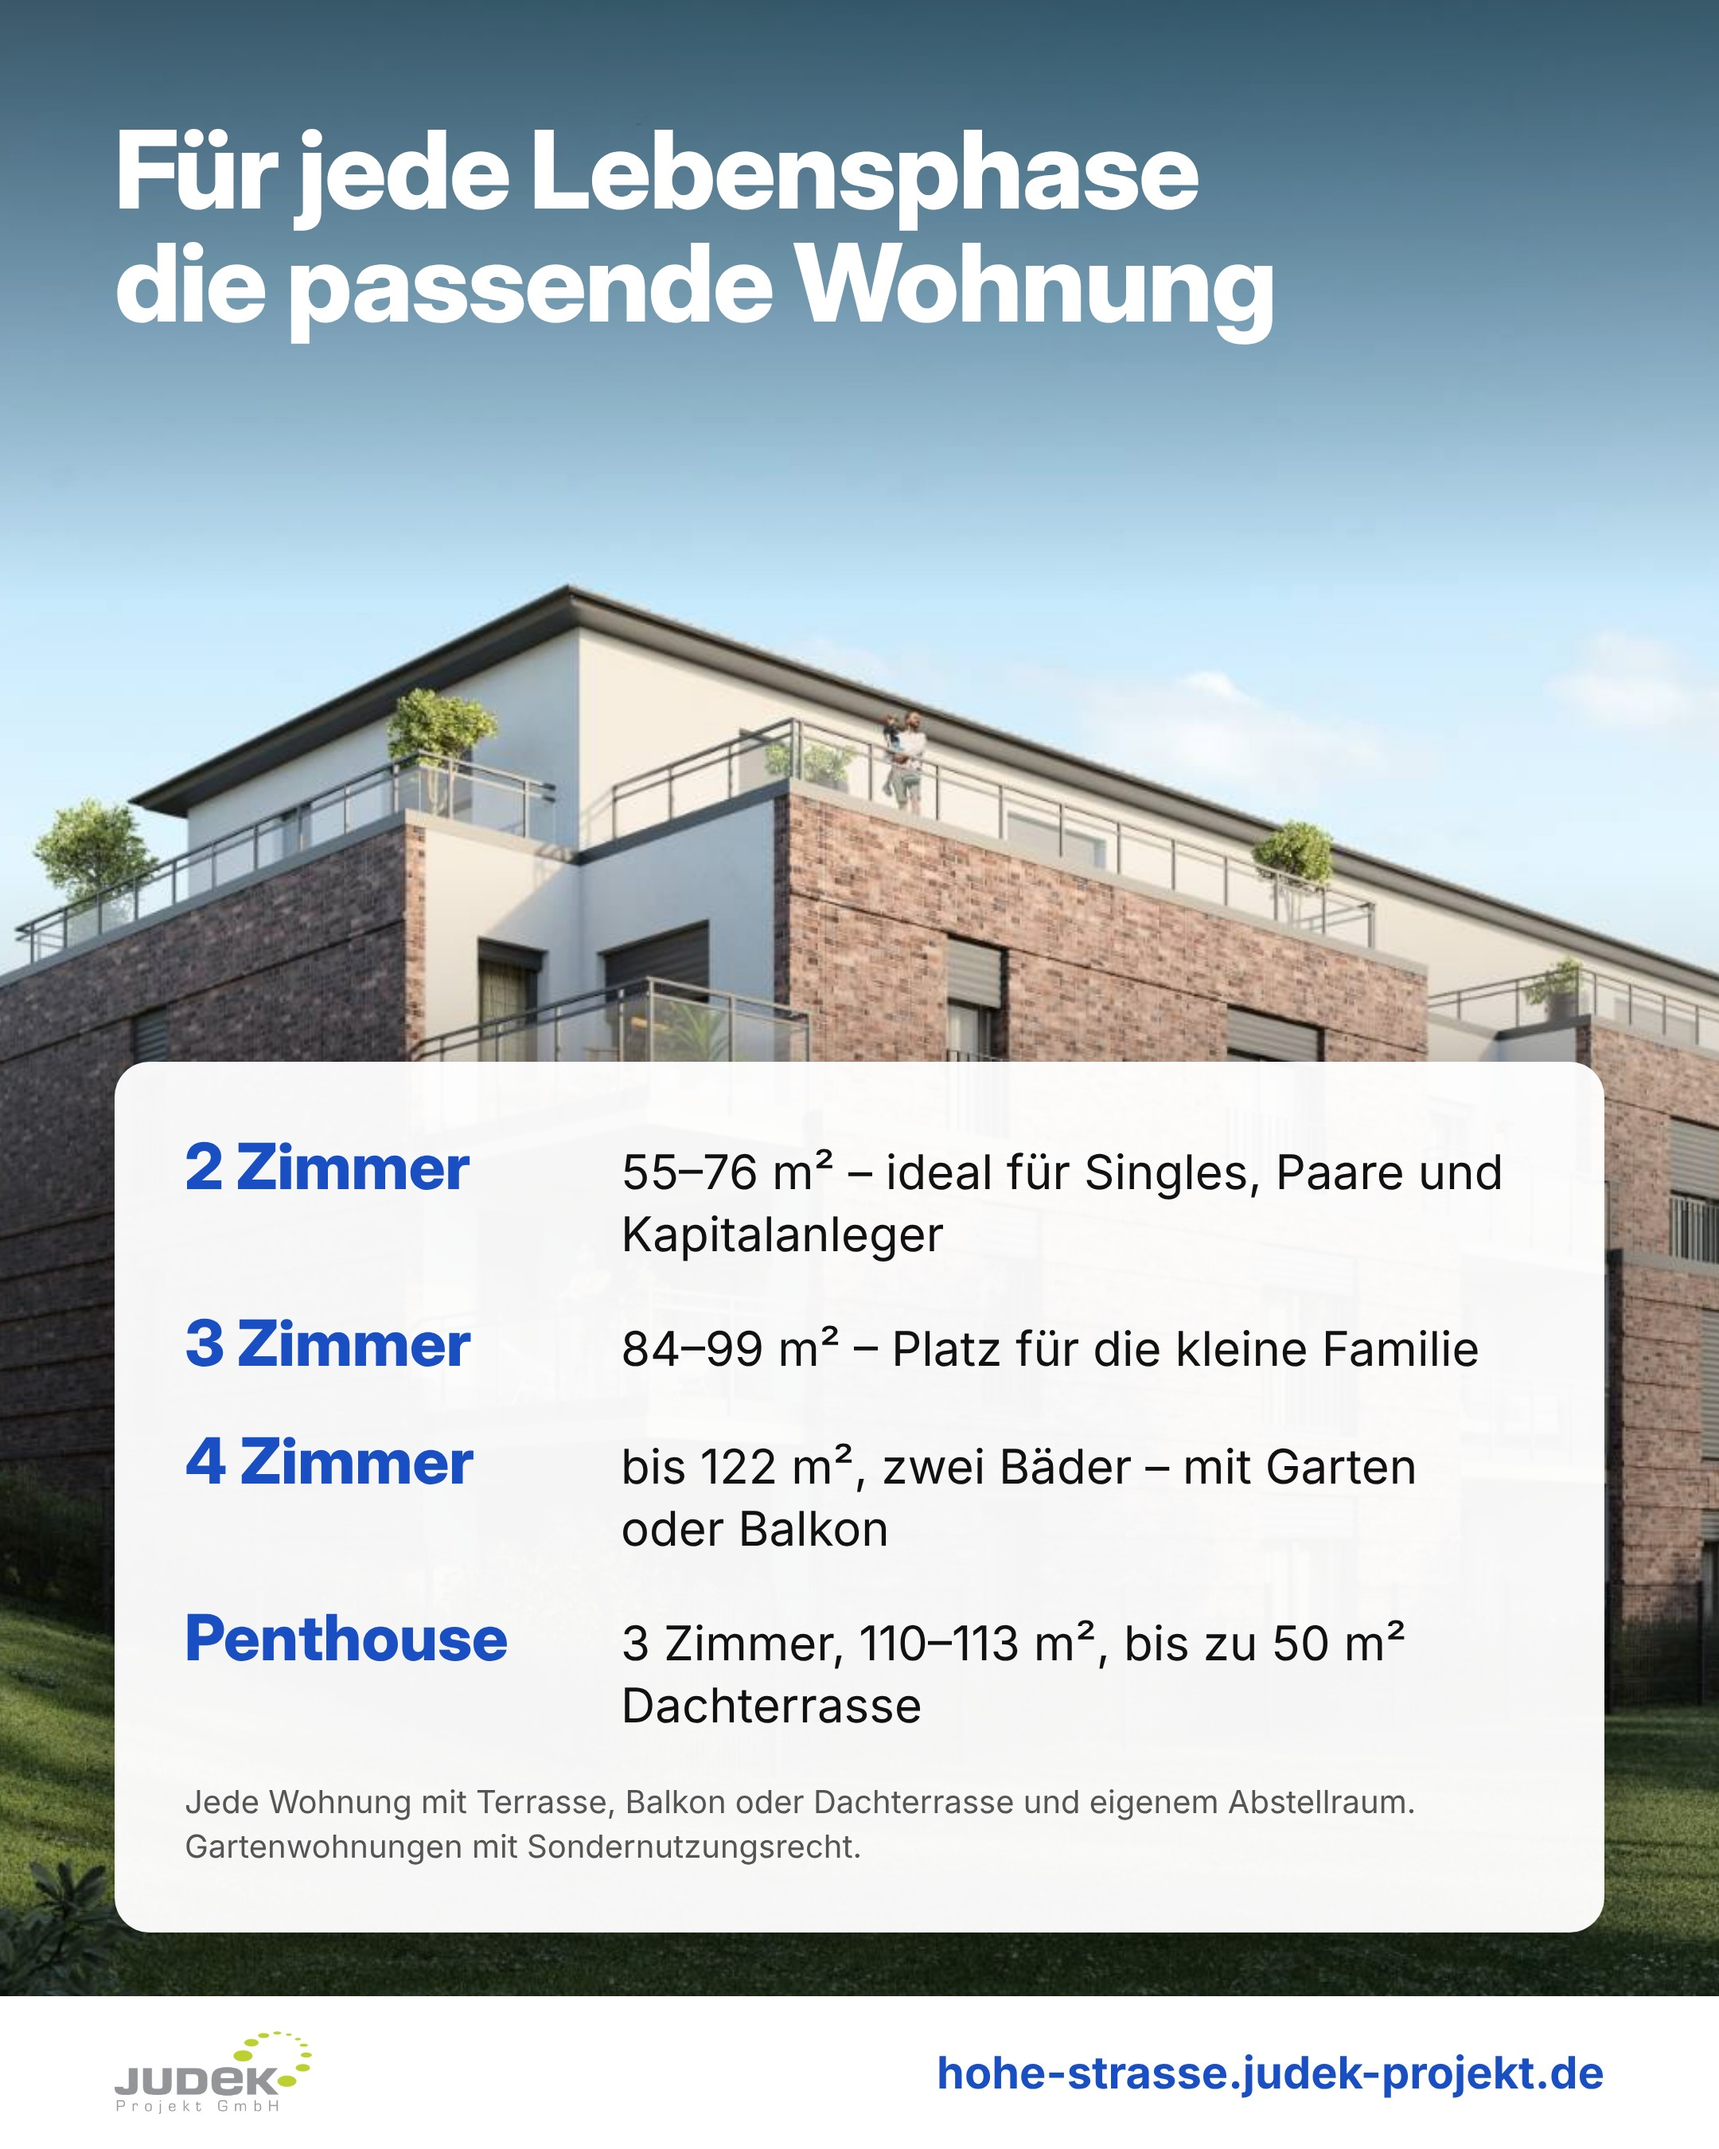
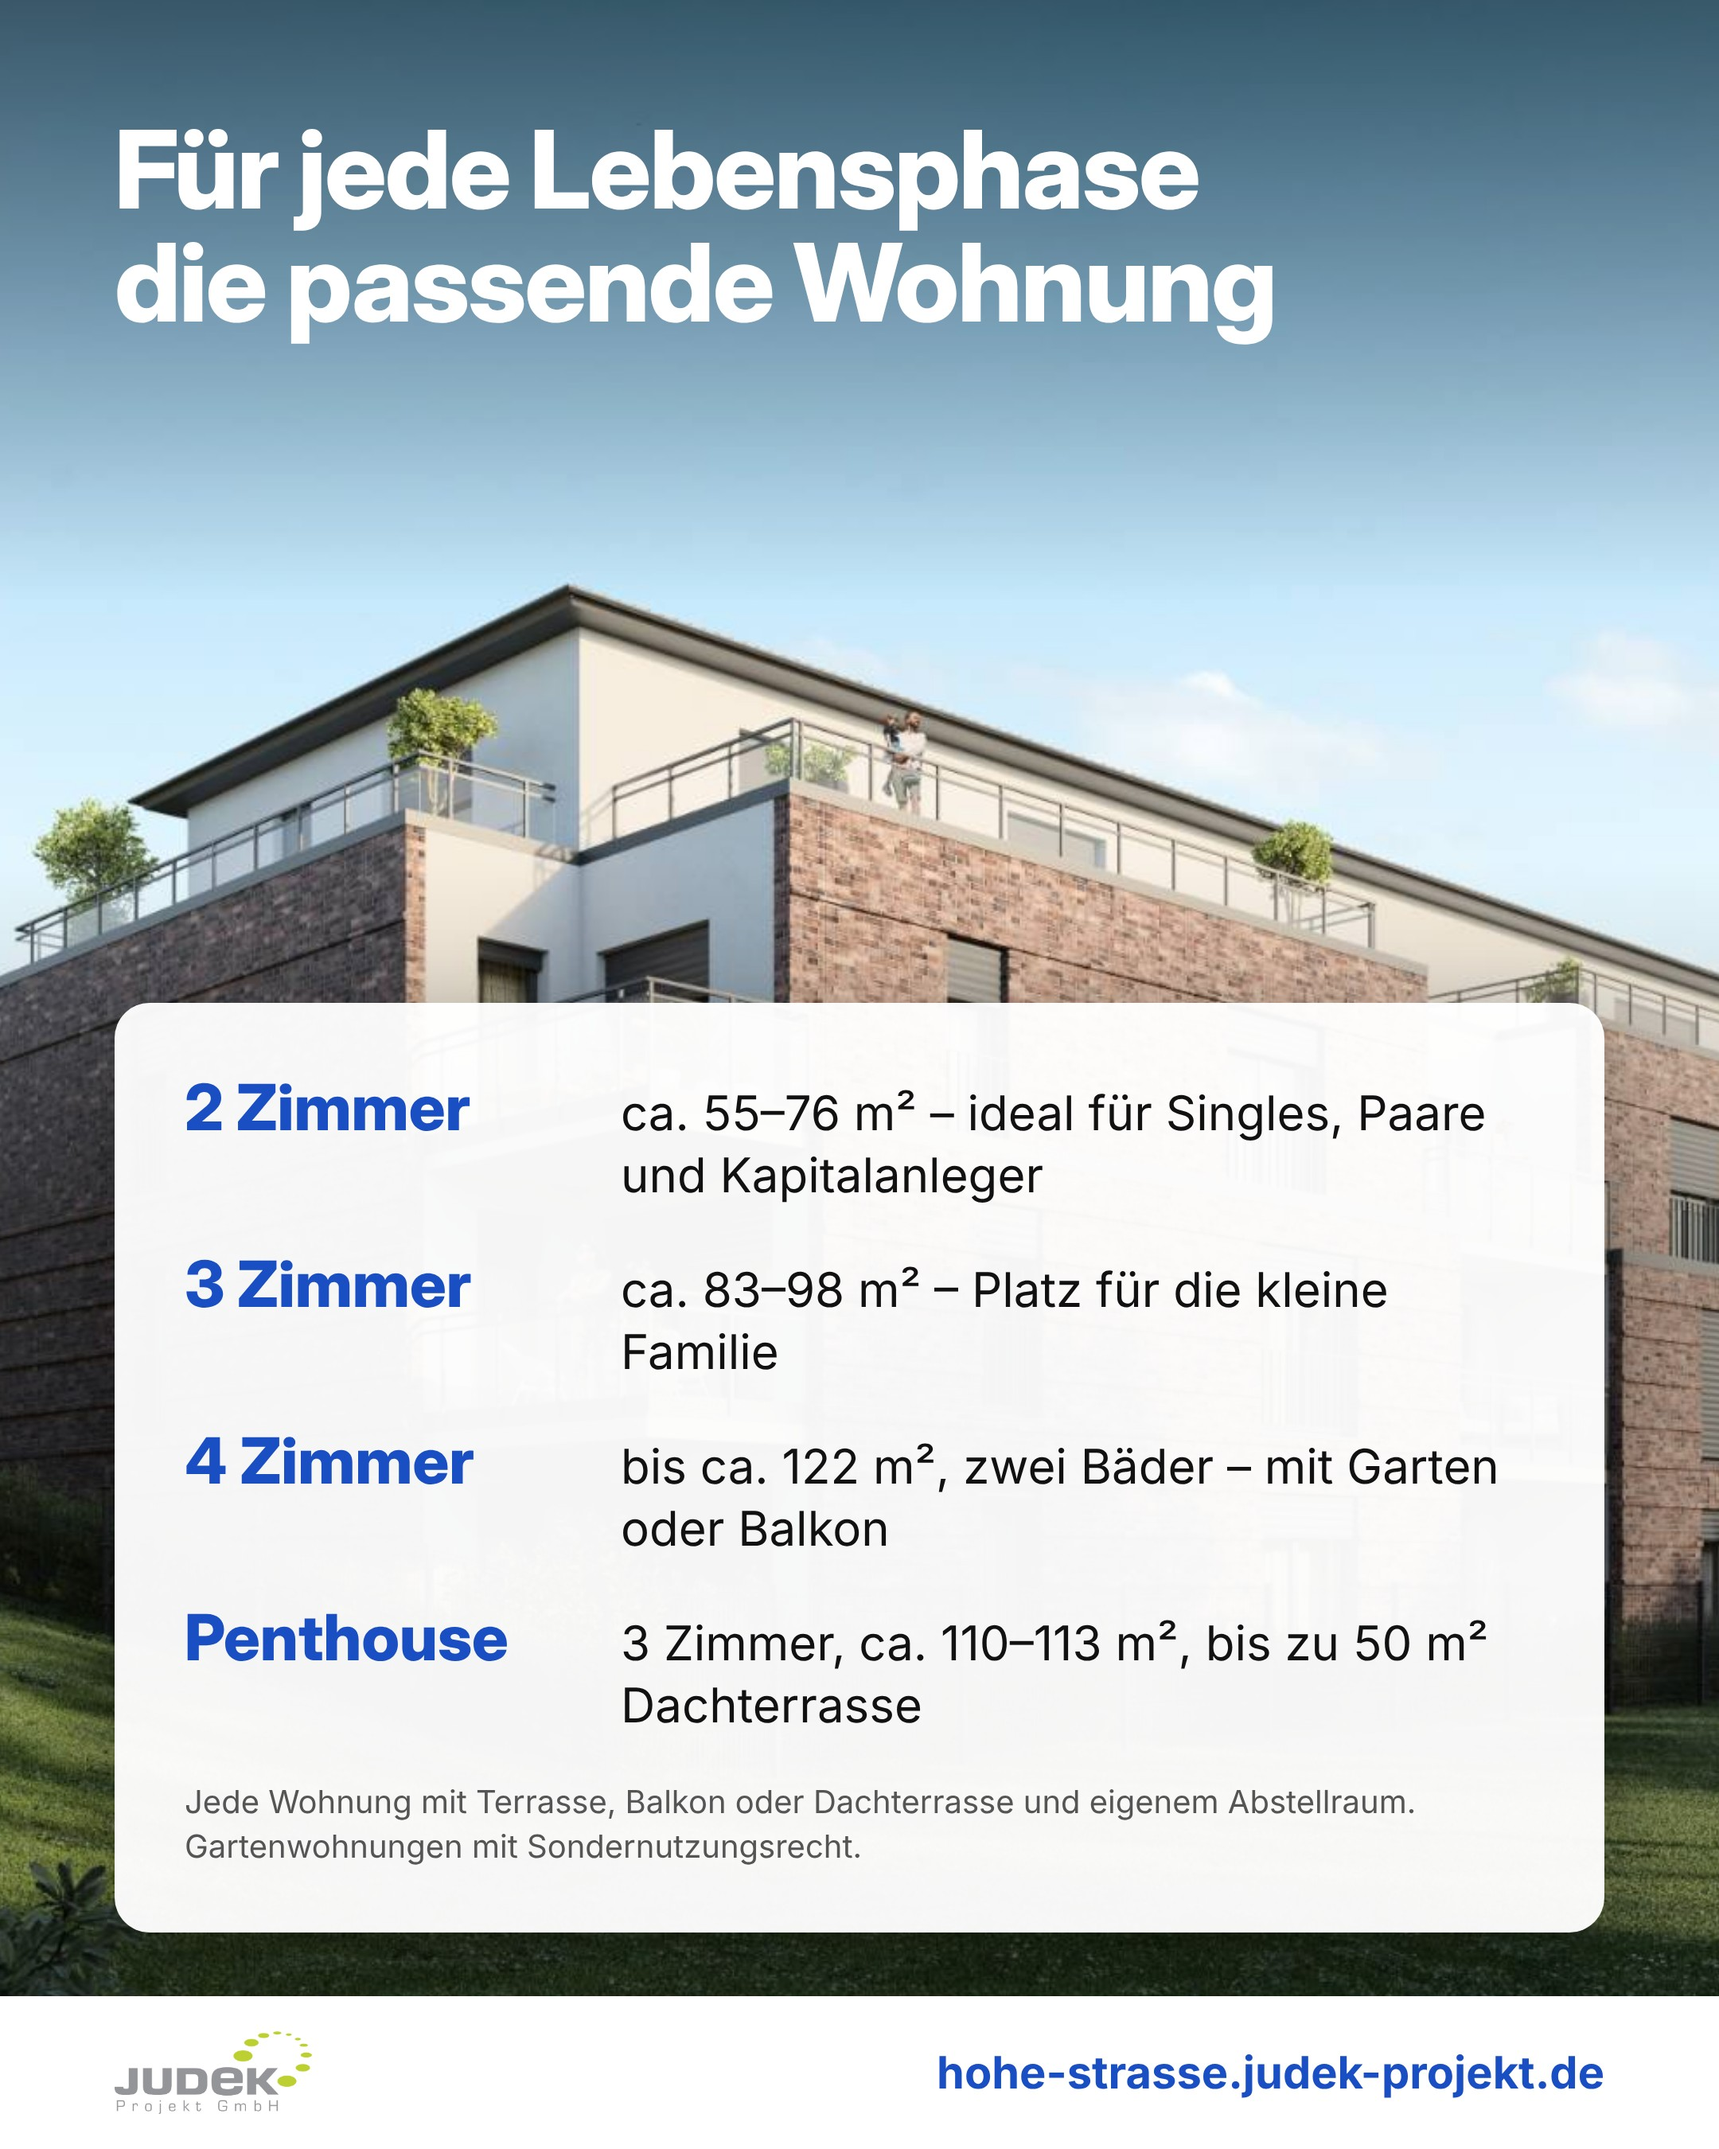
Facebook-Posting: Wohnflächen mit ca. und abgerundet
Claude-Session: https://claude.ai/code/session_01A9HRSVsThF8dxmguCCzcwQ

diff --git a/marketing/facebook-peine/posting.md b/marketing/facebook-peine/posting.md
@@ -1,13 +1,13 @@
 # Facebook-Posting „Mieten-Kaufen-Wohnen in Peine"
 
 Bilder in dieser Reihenfolge hochladen: 01-titel → 02-wohnungen → 03-ausstattung → 04-lage → 05-foerderung.
-Neu erzeugen: `node marketing/facebook-peine/render.mjs` (Fakten stehen im Skript, Quelle `src/lib/objekte.ts`).
+Wohnflächen immer mit „ca.“ und abgerundet. Neu erzeugen: `node marketing/facebook-peine/render.mjs` (Fakten stehen im Skript, Quelle `src/lib/objekte.ts`).
 
 ---
 
 🏡 Neubau in Hohenhameln – und noch 9 von 16 Wohnungen frei!
 
-In der Hohen Straße 11 entsteht gerade ein richtig schönes Haus: 2 bis 4 Zimmer, 55 bis 122 m², jede Wohnung mit Terrasse, Balkon oder Dachterrasse – oben sogar mit bis zu 50 m² Dachterrasse.
+In der Hohen Straße 11 entsteht gerade ein richtig schönes Haus: 2 bis 4 Zimmer, ca. 55 bis 122 m², jede Wohnung mit Terrasse, Balkon oder Dachterrasse – oben sogar mit bis zu 50 m² Dachterrasse.
 
 ✨ Was drin steckt:
 • Fußbodenheizung mit Wärmepumpe, Photovoltaik auf dem Dach – Effizienzhaus 40 mit QNG
